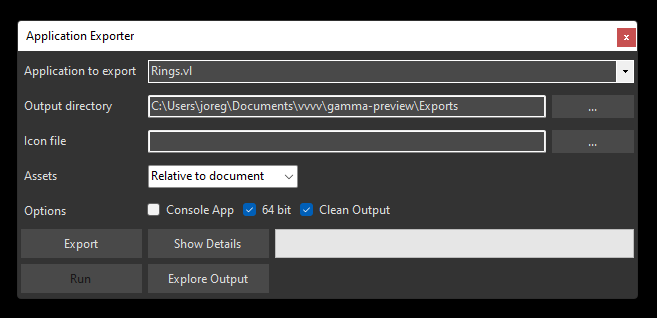
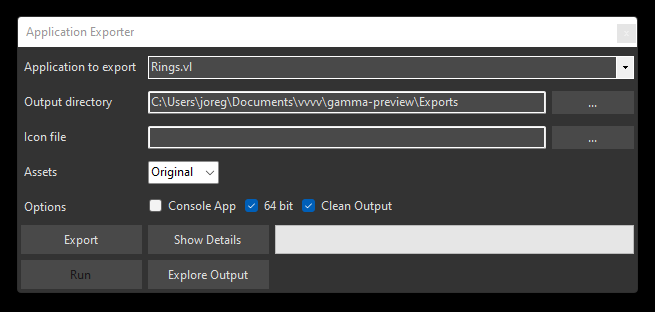
tweaks for export

diff --git a/reference/hde/exporting.md b/reference/hde/exporting.md
@@ -1,9 +1,9 @@
 # Exporting Applications
 
-vvvv allows you to export a patch into an executable, standalone program. In order to do so, open the Application Exporter via `Quad > Export...`.
+vvvv allows you to export a patch into an executable, standalone program. In order to do so, open the Application Exporter via `Quad > Export...` or shortcut <span class="keyseq"><kbd>F10</kbd></span>.
 
 ![](../../images/hde/exporting-35691.png)
-<center>The Application Exporter (Shortcut: F9)</center>
+<center>The Application Exporter</center>
 
 ## Application to export
 Choose which application to export (in case you have multiple projects open at the time).
@@ -24,8 +24,8 @@ Choose an .ico file to be associated with the generated executable.
 
 ## Assets
 Choose how assets will be referenced in the exported application:
-* **Relative to document**: This option is most useful during development, to quickly test exports without having to worry about moving assets around. Assets will be referenced from where they are. Note though that this also means that moving the output files to a different place will break any references!
-* **Relative to output**: Use this option for final exports: It requires you to manually place your assets relative to the generated executable. Like this the whole output can then be moved around and deployed to other PCs.
+* **Original**: This option is most useful during development, to quickly test exports without having to worry about moving assets around. Assets will be referenced from where they are. Note though that moving the output files to a different place will break any references!
+* **Copy**: Use this option for final exports: It requires you to manually place your assets relative to the generated executable as they were relative to your root document during development. Like this the whole output can then be moved around and deployed to other PCs.
   
 ## Options
 ### Console App
